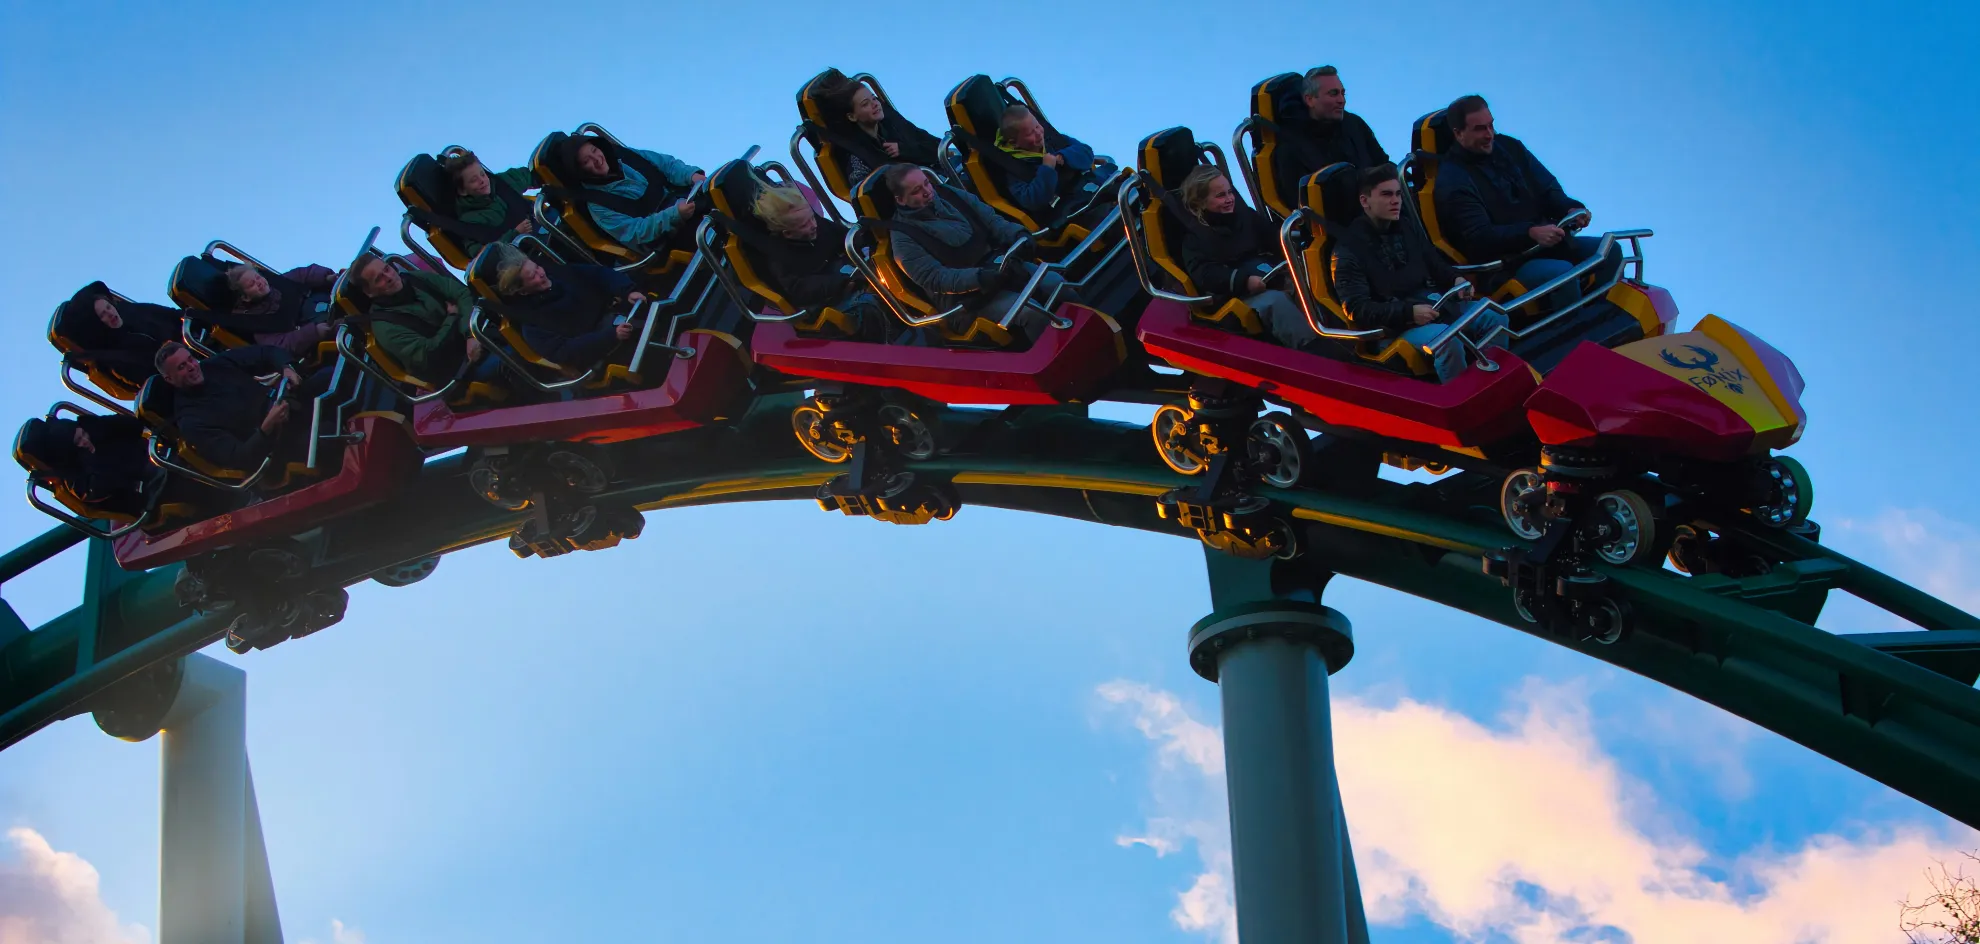
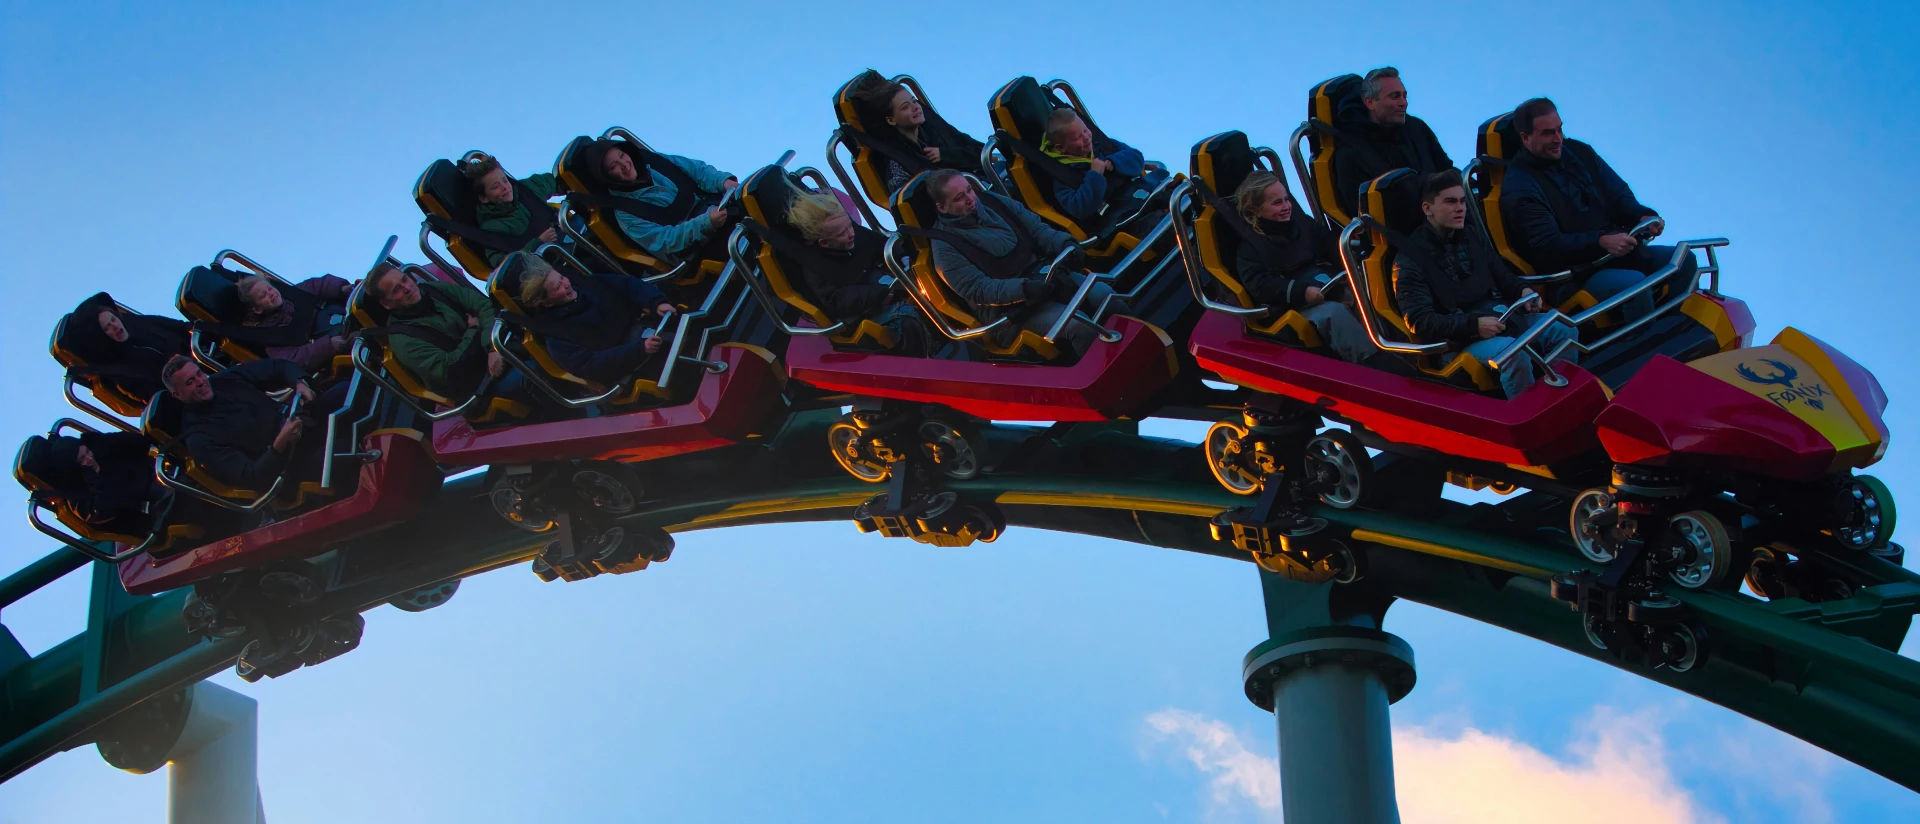
Lade till stil för hero och länk-knappar

diff --git a/css/global.css b/css/global.css
@@ -1,4 +1,4 @@
-/* Hämta nedladdade typsnitt */
+/* Hämtar nedladdade typsnitt */
 @font-face {
 	font-family: "matchaChi";
 	src: url(/assets/Matcha\ Cih.ttf);
@@ -18,10 +18,10 @@
 	--font-brand: "matchaChi", sans-serif;
 
 	/* Spacing */
-	--spacing-edge-mobile: 7vw; /* Utrymme mellan sidans kant och närmsta element */
+	--spacing-edge: 7vw; /* Utrymme mellan sidans kant och närmsta element */
 }
 
-/* =========================== Global ===========================*/
+/* =========================== GLOBAL ===========================*/
 
 * {
 	box-sizing: border-box;
@@ -31,24 +31,116 @@ body {
 	background-color: var(--color-bg-primary);
 	color: var(--color-primary);
 	font-family: var(--font-primary);
+	text-align: center;
 
-	/* Ta bort standard spacing*/
+	/* Tar bort standard spacing*/
 	padding: 0;
 	margin: 0;
 }
 
 img {
-	/* Hindra bilder från att ta upp mer än det tillgängliga utrymmet */
+	/* Hindrar bilder från att ta upp mer än det tillgängliga utrymmet */
 	max-width: 100%;
 }
 
-/* =========================== Header ===========================*/
+/* ------------------ Rubriker ------------------ */
+
+h1 {
+	color: var(--color-primary);
+	font-family: var(--font-brand);
+	font-size: 2.2rem;
+	line-height: 1.6; /* Mer utrymme mellan textrader */
+
+	/* 	Skapar tjock vit kant runt bokstäverna. 
+		Detta är det enda sättet jag hittar som ger resultatet jag vill ha.  
+		Hämtat från https://stackoverflow.com/a/55097644 men jag har bytt ut färgen */
+	text-shadow:
+		0px 10px 0.02px #fff,
+		9.8px 2.1px 0.02px #fff,
+		4.2px -9.1px 0.02px #fff,
+		-8px -6px 0.02px #fff,
+		-7.6px 6.5px 0.02px #fff,
+		4.8px 8.8px 0.02px #fff,
+		9.6px -2.8px 0.02px #fff,
+		-0.7px -10px 0.02px #fff,
+		-9.9px -1.5px 0.02px #fff,
+		-3.5px 9.4px 0.02px #fff,
+		8.4px 5.4px 0.02px #fff,
+		7.1px -7px 0.02px #fff,
+		-5.4px -8.4px 0.02px #fff,
+		-9.4px 3.5px 0.02px #fff,
+		1.4px 9.9px 0.02px #fff,
+		10px 0.8px 0.02px #fff,
+		2.9px -9.6px 0.02px #fff,
+		-8.7px -4.8px 0.02px #fff,
+		-6.6px 7.5px 0.02px #fff,
+		5.9px 8px 0.02px #fff,
+		9.1px -4.1px 0.02px #fff,
+		-2.1px -9.8px 0.02px #fff,
+		-10px -0.1px 0.02px #fff,
+		-2.2px 9.8px 0.02px #fff,
+		9.1px 4.2px 0.02px #fff,
+		6.1px -8px 0.02px #fff,
+		-6.5px -7.6px 0.02px #fff,
+		-8.8px 4.7px 0.02px #fff,
+		2.7px 9.6px 0.02px #fff,
+		10px -0.6px 0.02px #fff,
+		1.5px -9.9px 0.02px #fff,
+		-9.3px -3.6px 0.02px #fff,
+		-5.5px 8.4px 0.02px #fff,
+		7px 7.2px 0.02px #fff,
+		8.5px -5.3px 0.02px #fff,
+		-3.4px -9.4px 0.02px #fff,
+		-9.9px 1.3px 0.02px #fff,
+		-0.8px 10px 0.02px #fff,
+		9.6px 2.9px 0.02px #fff,
+		4.9px -8.7px 0.02px #fff,
+		-7.5px -6.7px 0.02px #fff,
+		-8.1px 5.9px 0.02px #fff,
+		4px 9.2px 0.02px #fff,
+		9.8px -2px 0.02px #fff,
+		0.2px -10px 0.02px #fff,
+		-9.7px -2.3px 0.02px #fff,
+		-4.3px 9px 0.02px #fff,
+		7.9px 6.1px 0.02px #fff;
+}
+
+/* ------------------ Knappar ------------------ */
+
+/* Knappar som länkar till annan sida */
+.button-link {
+	display: inline-block; /* Hindrar knappen från att brytas av vid brist på utrymme */
+	padding: 1.1rem 1.3rem;
+	border-radius: 12px;
+	background-color: var(--color-accent);
+	color: white;
+	font-family: var(--font-accent);
+	font-size: 1.1rem;
+	text-decoration: none;
+	letter-spacing: 0.05rem; /* Mer utrymme mellan bokstäver för bättre läsbarhet */
+	transition: background-color 0.2s;
+}
+
+.button-link:hover{
+	background-color: #94121d; /* Lite mörkare än --color-accent */
+}
+
+/* Pil på knapp */
+.button-link svg {
+	font-size: 0.9rem; /* Mindre font-size än texten */
+	transition: transform 0.1s;
+}
+
+.button-link:hover svg{
+	transform: translateX(0.3rem); /* Flyttar pilen till höger när muspekaren är över knappen*/
+}
+
+/* =========================== HEADER ===========================*/
 
 header {
 	background-color: var(--color-primary);
 	color: white;
-	width: 100vw;
-	padding: 15px var(--spacing-edge-mobile);
+	padding: 1rem var(--spacing-edge);
 	display: flex;
 	align-items: center;
 	justify-content: space-between;
@@ -60,6 +152,6 @@ header .logo {
 
 /* Ikoner i header */
 header svg {
-	font-size: 1.8rem;
-	margin-left: 10px;
+	font-size: 1.6rem;
+	margin-left: 0.8rem;
 }

diff --git a/index.html b/index.html
@@ -83,8 +83,8 @@
                 attraktioner, från fartfyllda berg- och dalbanor till familjevänliga karuseller och spännande
                 aktiviteter för de yngsta besökarna.</p>
             <h3>Har du frågor?</h3>
-            <a href="button button-link">Vanliga frågor <i class="fa-solid fa-arrow-right"></i></a>
-            <a href="button button-link">Kontakta oss <i class="fa-solid fa-arrow-right"></i></a>
+            <a href="#" class="button button-link">Vanliga frågor <i class="fa-solid fa-arrow-right"></i></a>
+            <a href="#" class="button button-link">Kontakta oss <i class="fa-solid fa-arrow-right"></i></a>
         </section>
     </main>
     <footer>

diff --git a/css/home.css b/css/home.css
@@ -1,0 +1,19 @@
+/* Startsidan */
+
+/* ------------------ Hero ------------------ */
+.hero {
+	background-image: url("../images/home/hero.webp");
+	background-color: #7ca9fd; /* Visas om inte bilden fungerar */
+	background-size: cover;
+	background-position: center;
+	padding: 2rem var(--spacing-edge);
+	min-height: 400px; /* Hindrar hero från att bli för platt när skärmen blir bredare */
+
+	/* Centrerar innehåll*/
+	display: flex;
+	flex-direction: column;
+	justify-content: center;
+	align-items: center;
+
+	gap: 1rem; /* Mellanrum mellan h1 och knapp */
+}
